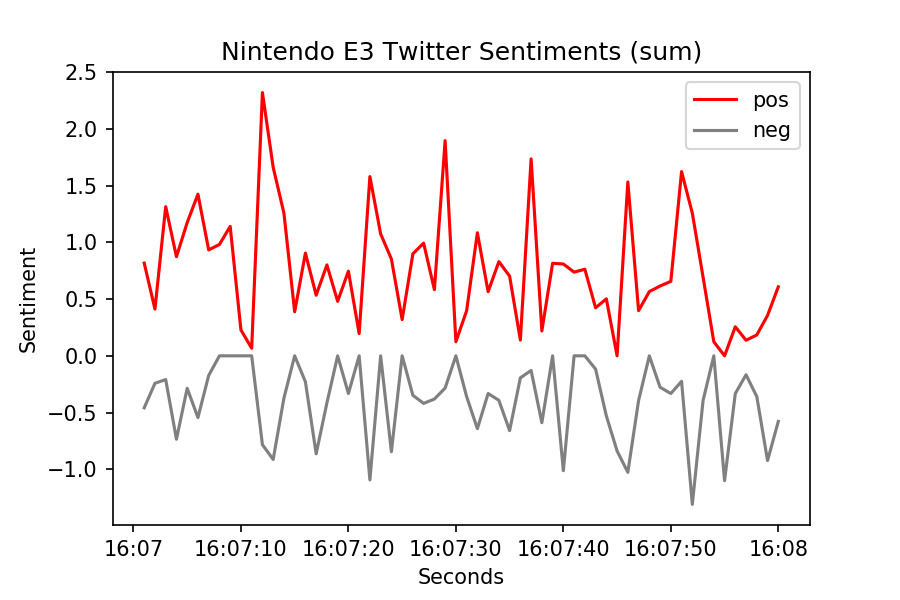
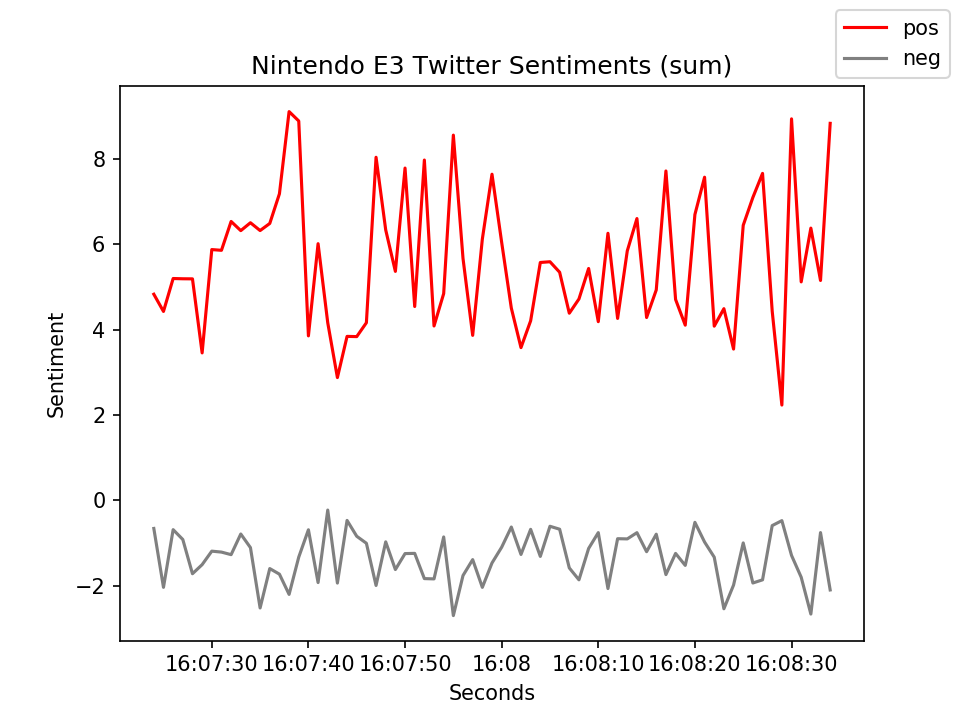
refresh graphs in web app, add youtube video

diff --git a/nintendo/webapp/templates/index.html b/nintendo/webapp/templates/index.html
@@ -43,7 +43,7 @@
               
       def show_results(response):
           if response.status==200:  # If the request was successful
-            document["trend_and_radar"].html = '<img src="/tmp/trend_line_time.png" width="400" height="270" alt="Trend Line"/>'
+            document["trend_and_radar"].html = response.text
           else:
               warnings.warn(response.text)
           
@@ -93,14 +93,17 @@
   <header class="masthead">
     <div class="container">
       <div class="intro-text">
-        <div class="intro-lead-in">Welcome To Twitter Sentiments of</div>
-        <div class="intro-heading text-uppercase">Nintendo E3 2019</div>
-        <h4 class="service-heading">Select Start Time</h4>
+        <div class="intro-lead-in"><span style="opacity: 0.85; background-color: #FED136">Welcome To Twitter Sentiments of</span></div>        
+        <div class="intro-heading text-uppercase"><span style="opacity: 0.85; background-color: #FED136">Nintendo E3 2019</span></div>
+        <iframe width="560" height="315" src="https://www.youtube.com/embed/akohTFyGu88" frameborder="0" allow="accelerometer; autoplay; encrypted-media; gyroscope; picture-in-picture" allowfullscreen></iframe>
+        <h4 class="service-heading"><span style="opacity: 0.85; background-color: #FED136">Select Start Time</span></h4>
         <textarea id="start_time">16:07:23</textarea>
-        <h4 class="service-heading">Select End Time</h4>
+        <h4 class="service-heading"><span style="opacity: 0.85; background-color: #FED136">Select End Time</span></h4>
         <textarea id="end_time">16:08:34</textarea>
         <!-- <a class="btn btn-primary btn-xl text-uppercase js-scroll-trigger" href="#services">View Sentiments</a> -->
-        <button id="predict_button">View Sentiments!</button>
+        <div> 
+          <button id="predict_button">View Sentiments!</button>
+        </div>
         <div id="trend_and_radar"></div>
       </div>
     </div>

diff --git a/nintendo/functions.py b/nintendo/functions.py
@@ -17,11 +17,6 @@ from nltk.stem import WordNetLemmatizer
 from vaderSentiment.vaderSentiment import SentimentIntensityAnalyzer
 
 """CLEANING"""
-"""CLEANING"""
-"""CLEANING"""
-"""CLEANING"""
-"""CLEANING"""
-"""CLEANING"""
 
 
 def unique_hashtag_list(df1):
@@ -176,11 +171,6 @@ def remove_just_links(df1):
 
 
 """VADER SENTIMENT """
-"""VADER SENTIMENT """
-"""VADER SENTIMENT """
-"""VADER SENTIMENT """
-"""VADER SENTIMENT """
-"""VADER SENTIMENT """
 
 
 def vader_sentiment(df1):
@@ -192,11 +182,6 @@ def vader_sentiment(df1):
     return vader_output
 
 
-"""TREND LINES (5 SECS)"""
-"""TREND LINES (5 SECS)"""
-"""TREND LINES (5 SECS)"""
-"""TREND LINES (5 SECS)"""
-"""TREND LINES (5 SECS)"""
 """TREND LINES (5 SECS)"""
 
 
@@ -243,15 +228,10 @@ def trend_line_by_5_sec(df1, sum_mean="sum"):
     plt.ylabel("Sentiment")
     plt.title("Nintendo E3 Twitter Sentiments (sum)")
     plt.legend()
-    plt.savefig('nintendo/webapp/static/tmp/trend_line_hour.png', dpi=150)
+    plt.savefig("nintendo/webapp/static/tmp/trend_line_hour.png", dpi=150)
     plt.show()
 
 
-"""TREND LINES (SPECIFIC TIME)"""
-"""TREND LINES (SPECIFIC TIME)"""
-"""TREND LINES (SPECIFIC TIME)"""
-"""TREND LINES (SPECIFIC TIME)"""
-"""TREND LINES (SPECIFIC TIME)"""
 """TREND LINES (SPECIFIC TIME)"""
 
 
@@ -274,7 +254,7 @@ def dict_by_index_of_filtered_times(
             specific_times_final.append(0)
         elif i == True:
             specific_times_final.append(1)
-            
+
     times_dict = dict(zip(every_index, specific_times_final))
     times_only_dict = dict((k, v) for k, v in times_dict.items() if v == 1)
     return times_only_dict
@@ -302,22 +282,19 @@ def trend_line_by_time(
     # negate trend_df['neg']
     trend_df["neg"] = trend_df["neg"].map(lambda x: x * -1)
     # plot trend_line
-    plt.plot(trend_df["pos"], color="red")
     # ax.plot()
-    # fig,ax = plt.subplots()
-    plt.plot(trend_df["neg"], color="grey")
-    plt.xlabel("Seconds")
-    plt.ylabel("Sentiment")
-    plt.title("Nintendo E3 Twitter Sentiments (sum)")
-    plt.legend()
-    plt.savefig('nintendo/webapp/static/tmp/trend_line_time.png', dpi=150)
+    filename = (start_time_str + "_" + end_time_str).replace(":", "-") + "_trend.png"
+    fig, ax = plt.subplots()
+    ax.plot(trend_df["pos"], color="red")
+    ax.plot(trend_df["neg"], color="grey")
+    ax.set_xlabel("Seconds")
+    ax.set_ylabel("Sentiment")
+    ax.set_title("Nintendo E3 Twitter Sentiments (sum)")
+    fig.legend()
+    fig.savefig(f"nintendo/webapp/static/tmp/{filename}", dpi=150)
+    return filename
 
 
-"""RADAR PLOTS (SPECIFIC TIME)"""
-"""RADAR PLOTS (SPECIFIC TIME)"""
-"""RADAR PLOTS (SPECIFIC TIME)"""
-"""RADAR PLOTS (SPECIFIC TIME)"""
-"""RADAR PLOTS (SPECIFIC TIME)"""
 """RADAR PLOTS (SPECIFIC TIME)"""
 
 
@@ -357,7 +334,7 @@ def words_df(df1):
     # remove index and reset index
     df = df.drop("index", 1)
     df = df.reset_index()
-    df = df.rename(index=str, columns={"index": "index"})  
+    df = df.rename(index=str, columns={"index": "index"})
     # create a matrix dataframe of words
     matrix_df = vectorize_to_matrix_df(df1).reset_index()
     matrix_df = matrix_df.rename(index=str, columns={"index": "matrix_df_index"})
@@ -503,10 +480,10 @@ def output_radar_plot(df1, which_five="top"):
     # Fill area
     if which_five == "top":
         radar_plot = ax.fill(angles, values, "red", alpha=0.1)
-        plt.savefig('nintendo/webapp/static/tmp/radar_plot.png', dpi=150) #NEW LINE
+        plt.savefig("nintendo/webapp/static/tmp/radar_plot.png", dpi=150)  # NEW LINE
     elif which_five == "bottom":
         radar_plot = ax.fill(angles, values, "grey", alpha=0.1)
-        plt.savefig('nintendo/webapp/static/tmp/radar_plot.png', dpi=150) #NEW LINE
+        plt.savefig("nintendo/webapp/static/tmp/radar_plot.png", dpi=150)  # NEW LINE
     return radar_plot
 
 
@@ -540,7 +517,7 @@ def automated_radar_plots(
 #         df_pkl_4 = pickle.load(f)
 #     with open ('./nintendo/pkl/words_df_pickle_5.pkl', 'rb') as f:
 #         df_pkl_5 = pickle.load(f)
-#     df_c = pd.concat([df_pkl_1, 
+#     df_c = pd.concat([df_pkl_1,
 #                     df_pkl_2.reset_index(drop=True),
 #                     df_pkl_3.reset_index(drop=True),
 #                     df_pkl_4.reset_index(drop=True),
@@ -549,83 +526,65 @@ def automated_radar_plots(
 #     return df_c
 #     return output_radar_plot(df_c, which_five=which_five)
 
-'''2019 FINAL TREND FUNCTION... no inputs required'''
-'''2019 FINAL TREND FUNCTION... no inputs required'''
-'''2019 FINAL TREND FUNCTION... no inputs required'''
+"""2019 FINAL TREND FUNCTION... no inputs required"""
 
-def trend_2019(start_time='16:07:00', 
-               end_time='16:08:00', 
-               sum_mean='sum'
-              ):
-    '''No inputs required... 2019 trend line function.'''
-    with open ('./nintendo/pkl/2019_df.pkl', 'rb') as f:
+
+def trend_2019(start_time="16:07:00", end_time="16:08:00", sum_mean="sum"):
+    """No inputs required... 2019 trend line function."""
+    with open("./nintendo/pkl/2019_df.pkl", "rb") as f:
         df = pickle.load(f)
-    trend_line_by_time(df, 
-                       start_time_str=start_time, 
-                       end_time_str=end_time,
-                       sum_mean=sum_mean)
+    trend_line_by_time(
+        df, start_time_str=start_time, end_time_str=end_time, sum_mean=sum_mean
+    )
 
-'''2019 FINAL RADAR FUNCTION... no inputs required.'''
-'''2019 FINAL RADAR FUNCTION... no inputs required.'''
-'''2019 FINAL RADAR FUNCTION... no inputs required.'''
 
-def radar_2019(start_time='16:07:00', 
-               end_time='16:08:00', 
-               which_five='top'
-              ):
-    '''No inputs required... 2019 radar plot function.'''
-    with open ('./nintendo/pkl/2019_df.pkl', 'rb') as f:
+"""2019 FINAL RADAR FUNCTION... no inputs required."""
+
+
+def radar_2019(start_time="16:07:00", end_time="16:08:00", which_five="top"):
+    """No inputs required... 2019 radar plot function."""
+    with open("./nintendo/pkl/2019_df.pkl", "rb") as f:
         df = pickle.load(f)
-    automated_radar_plots(df, 
-                           start_time=start_time, 
-                           end_time=end_time, 
-                           which_five=which_five)
+    automated_radar_plots(
+        df, start_time=start_time, end_time=end_time, which_five=which_five
+    )
 
-'''2018 FINAL TREND FUNCTION... Grouped by 5 seconds & for whole hour.'''
-'''2018 FINAL TREND FUNCTION... Grouped by 5 seconds & for whole hour.'''
-'''2018 FINAL TREND FUNCTION... Grouped by 5 seconds & for whole hour.'''
 
-def trend_2018_5_secs(sum_mean='sum'):
-    '''No inputs required... 2018 trend grouped by 5 seconds.'''
-    with open ('./nintendo/pkl/2018_df.pkl', 'rb') as f:
+"""2018 FINAL TREND FUNCTION... Grouped by 5 seconds & for whole hour."""
+
+
+def trend_2018_5_secs(sum_mean="sum"):
+    """No inputs required... 2018 trend grouped by 5 seconds."""
+    with open("./nintendo/pkl/2018_df.pkl", "rb") as f:
         df = pickle.load(f)
     unique_seconds = unique_seconds_list(df)
     list_of_second_groups = second_groupings(5, unique_seconds)
     seconds_dict = dict(zip(unique_seconds, list_of_second_groups))
-    df['5_seconds'] = df['.time.'].map(seconds_dict)
+    df["5_seconds"] = df[".time."].map(seconds_dict)
     trend_line_by_5_sec(df, sum_mean=sum_mean)
 
-'''2018 FINAL TREND FUNCTION... Select time range.'''
-'''2018 FINAL TREND FUNCTION... Select time range.'''
-'''2018 FINAL TREND FUNCTION... Select time range.'''
 
-def trend_2018_select_secs(start_time='16:07:24', 
-                           end_time='16:08:36',
-                           sum_mean='sum',
-                           ):
-    '''No inputs required. Returns trend line within time range.'''
-    with open ('./nintendo/pkl/2018_df.pkl', 'rb') as f:
+"""2018 FINAL TREND FUNCTION... Select time range."""
+
+
+def trend_2018_select_secs(start_time="16:07:24", end_time="16:08:36", sum_mean="sum"):
+    """No inputs required. Returns trend line within time range."""
+    with open("./nintendo/pkl/2018_df.pkl", "rb") as f:
         df = pickle.load(f)
-    trend_line_by_time(df, 
-                       start_time_str=start_time, 
-                       end_time_str=end_time, 
-                       sum_mean=sum_mean
-                       )
+    filename = trend_line_by_time(
+        df, start_time_str=start_time, end_time_str=end_time, sum_mean=sum_mean
+    )
+    return filename
 
-'''2018 FINAL RADAR FUNCTION... no inputs required.'''
-'''2018 FINAL RADAR FUNCTION... no inputs required.'''
-'''2018 FINAL RADAR FUNCTION... no inputs required.'''
 
-def radar_2018(start_time='16:07:24', 
-               end_time='16:08:36',
-               which_five='top',
-               ):
-    '''No inputs required. Returns radar plot within time range.'''
-    with open ('./nintendo/pkl/2018_df.pkl', 'rb') as f:
+"""2018 FINAL RADAR FUNCTION... no inputs required."""
+
+
+def radar_2018(start_time="16:07:24", end_time="16:08:36", which_five="top"):
+    """No inputs required. Returns radar plot within time range."""
+    with open("./nintendo/pkl/2018_df.pkl", "rb") as f:
         df = pickle.load(f)
-    #df = import_df_pickles()
-    automated_radar_plots(df, 
-                           start_time=start_time, 
-                           end_time=end_time, 
-                           which_five=which_five)
-
+    # df = import_df_pickles()
+    automated_radar_plots(
+        df, start_time=start_time, end_time=end_time, which_five=which_five
+    )

diff --git a/nintendo/webapp/app.py b/nintendo/webapp/app.py
@@ -50,19 +50,20 @@ def predict():
     print("after_2")
 
     #prediction = model.predict_proba([data['start_time'], data['end_time']]) #plug in html user_input id variables
-    trend_2018_select_secs(start_time=data['start_time'], 
+    filename = trend_2018_select_secs(start_time=data['start_time'], 
                                     end_time=data['end_time'],
                                     sum_mean='sum')
     print("after_1")
     # return prediction
-    time.sleep(2)
+    return f'<img src="/tmp/{filename}" width="400" height="320"/>' #class="chart" />'
+
 # @app.route('/trend_line_time.png', methods=['GET', 'POST'])
 # def trend_line():
-    '''Return trend line'''
-    #data = request.json
-    with open ('/Users/laurashummonmaass/Documents/flatiron/capstone_final/Nintendo_E3_Sentiment_Analysis/nintendo/webapp/static/tmp/trend_line_time.png', 'rb') as f:
-        image_data = f.read()
-    response = make_response(image_data)
-    response.headers.set('Content-Type', 'image/png')
-    return response 
+    # '''Return trend line'''
+    # #data = request.json
+    # with open ('/Users/laurashummonmaass/Documents/flatiron/capstone_final/Nintendo_E3_Sentiment_Analysis/nintendo/webapp/static/tmp/trend_line_time.png', 'rb') as f:
+    #     image_data = f.read()
+    # response = make_response(image_data)
+    # response.headers.set('Content-Type', 'image/png')
+    # return response 
 
